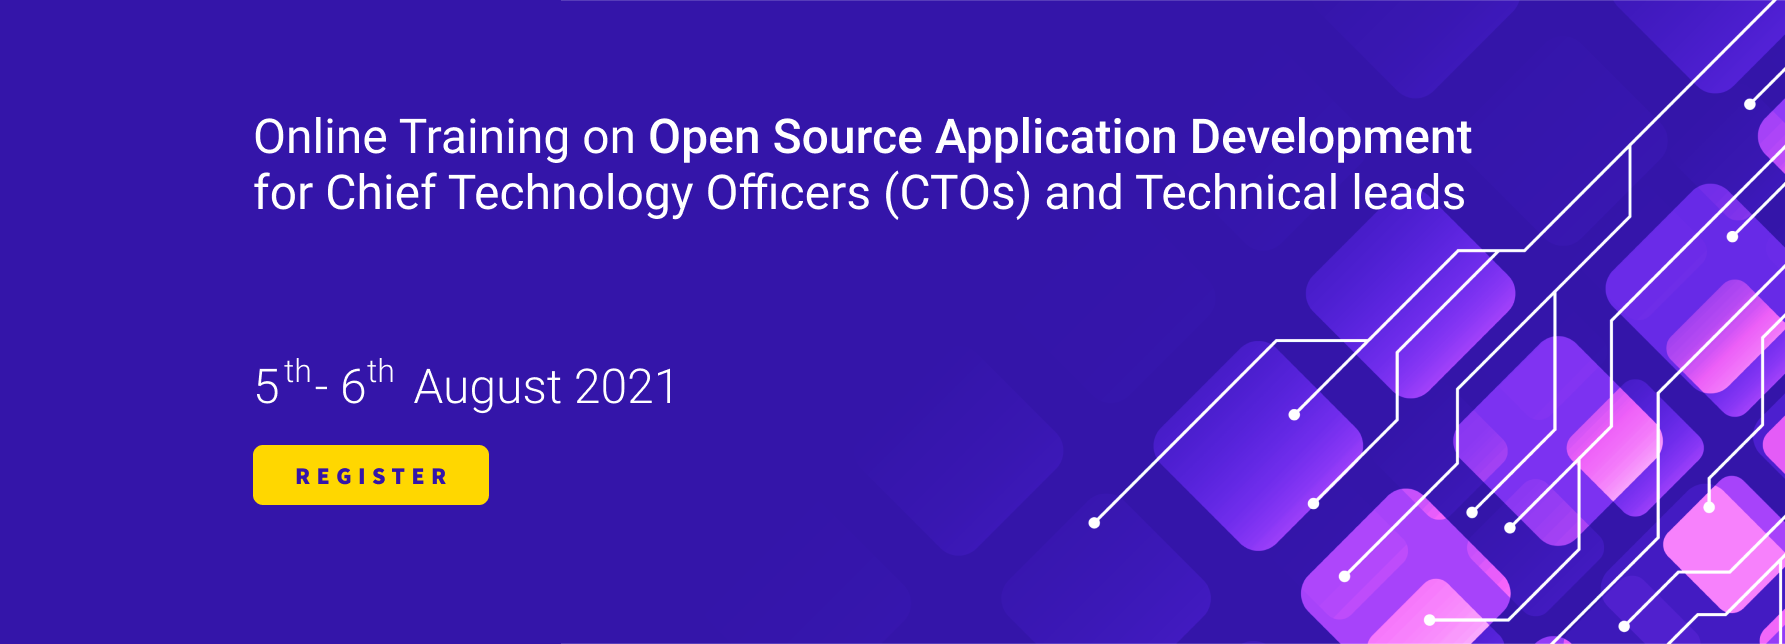
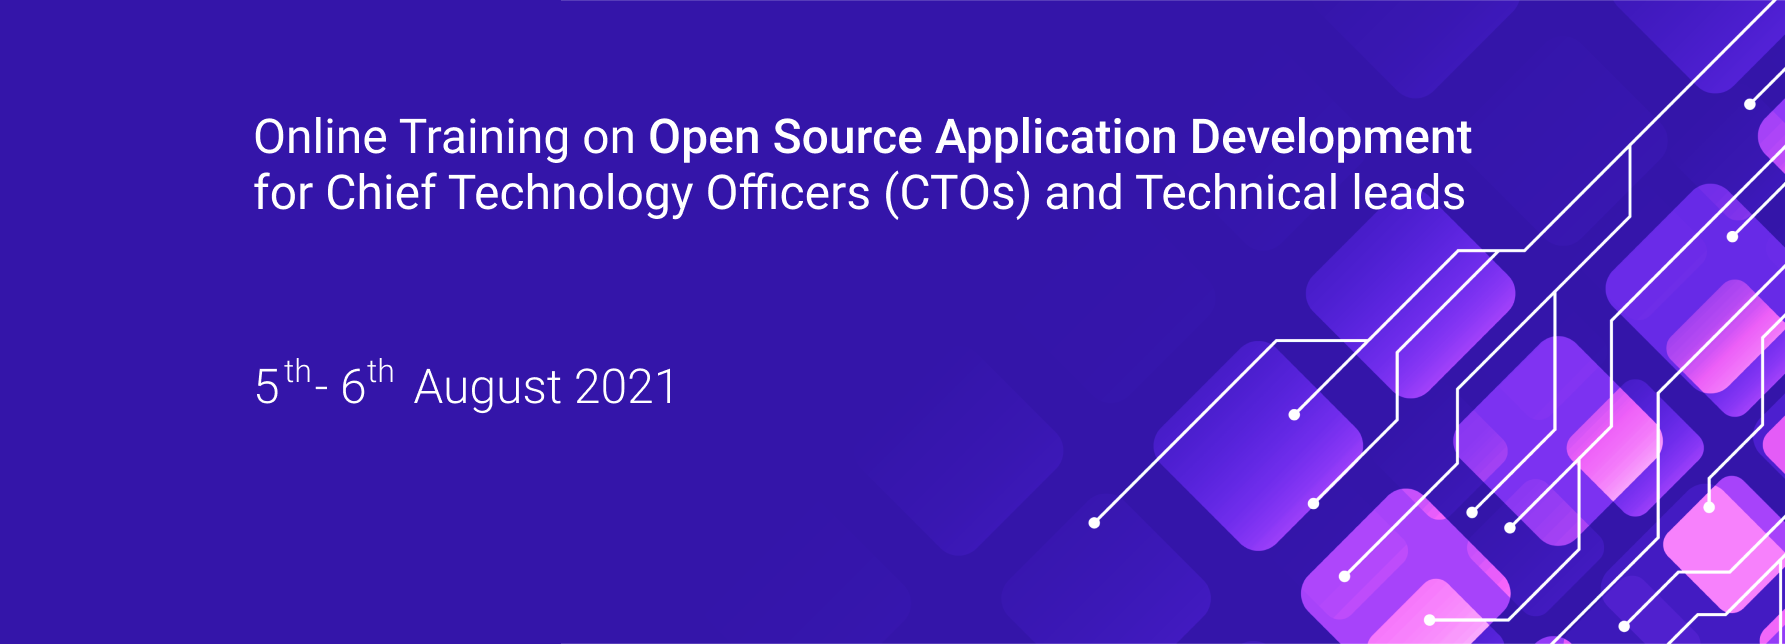
Registration Closed

Changed region(s): [[0.1232, 0.6832, 0.2773, 0.8075]]

diff --git a/index.html b/index.html
@@ -40,13 +40,12 @@
         </div>
     </nav>
     <div class="">
-        <a href="https://bit.ly/indiadialogue" target="_blank"><img src="assets/img/desktop-header.png" class="d-md-none d-lg-block d-none" style="width: 100vw;" alt=""></a>
+        <img src="assets/img/desktop-header.png" class="d-md-none d-lg-block d-none" style="width: 100vw;" alt="">
     </div>
     <section id="main-head" class="d-md-block d-lg-none" style="background: url(&quot;assets/img/Background.png&quot;) center / cover no-repeat;">
         <div class="container" style="padding: 0px 12px;">
             <h1 class="header" style="color: rgb(255,255,255);margin-bottom: 80px;font-family: 'Roboto',sans-serif;">Online Training on Open Source Application Development for Chief Technology Officers (CTOs) and Technical leads</h1>
             <h1 style="color: rgb(255,255,255);margin-bottom: 20px;font-family: 'Roboto',sans-serif;font-weight:300;">5<sup>th</sup> - 6<sup>th</sup> August 2021</h1>
-            <a href="https://bit.ly/indiadialogue" target="_blank"><button class="btn btn-primary btn-lg text-uppercase" type="button" style="color: #3415a9;background: #ffd700;letter-spacing: 5px;font-weight: bold;font-family: Roboto, sans-serif;padding: 15px 42px;font-size: 18px;border-radius: 10px; border: none;">register</button></a>
         </div>
     </section>
     <section id="programme" style="background: #f4f4fc;">
@@ -107,9 +106,9 @@
                 <div class="d-grid agenda-header accordion-status-bar">
                     <p class="mb-0" style="grid-column: span 3 / span 3;font-family: 'Roboto',sans-serif;font-size: 25px;">Time</p>
                     <p class="mb-0" style="grid-column: span 5 / span 5;font-family: 'Roboto',sans-serif;font-size: 25px;font-weight:700;">Agenda</p>
-                    <p class="mb-0" style="grid-column: span 4 / span 4;font-family: 'Roboto',sans-serif;font-size: 25px;font-weight:700;text-align:right;">
+                    <!-- <p class="mb-0" style="grid-column: span 4 / span 4;font-family: 'Roboto',sans-serif;font-size: 25px;font-weight:700;text-align:right;">
                         <a href="https://bit.ly/indiadialogue" target="_blank"><button class="btn btn-primary btn-lg text-uppercase" type="button" style="color: #000;background: #fff;letter-spacing: 5px;font-weight: bold;font-family: Roboto, sans-serif;padding: 5px 35px;;font-size: 18px;border-radius: 20px; border:none;">register</button></a>
-                    </p>
+                    </p> -->
                 </div>
                 <!-- Day 1 -->
                 <div class="accordion-date-bar">
